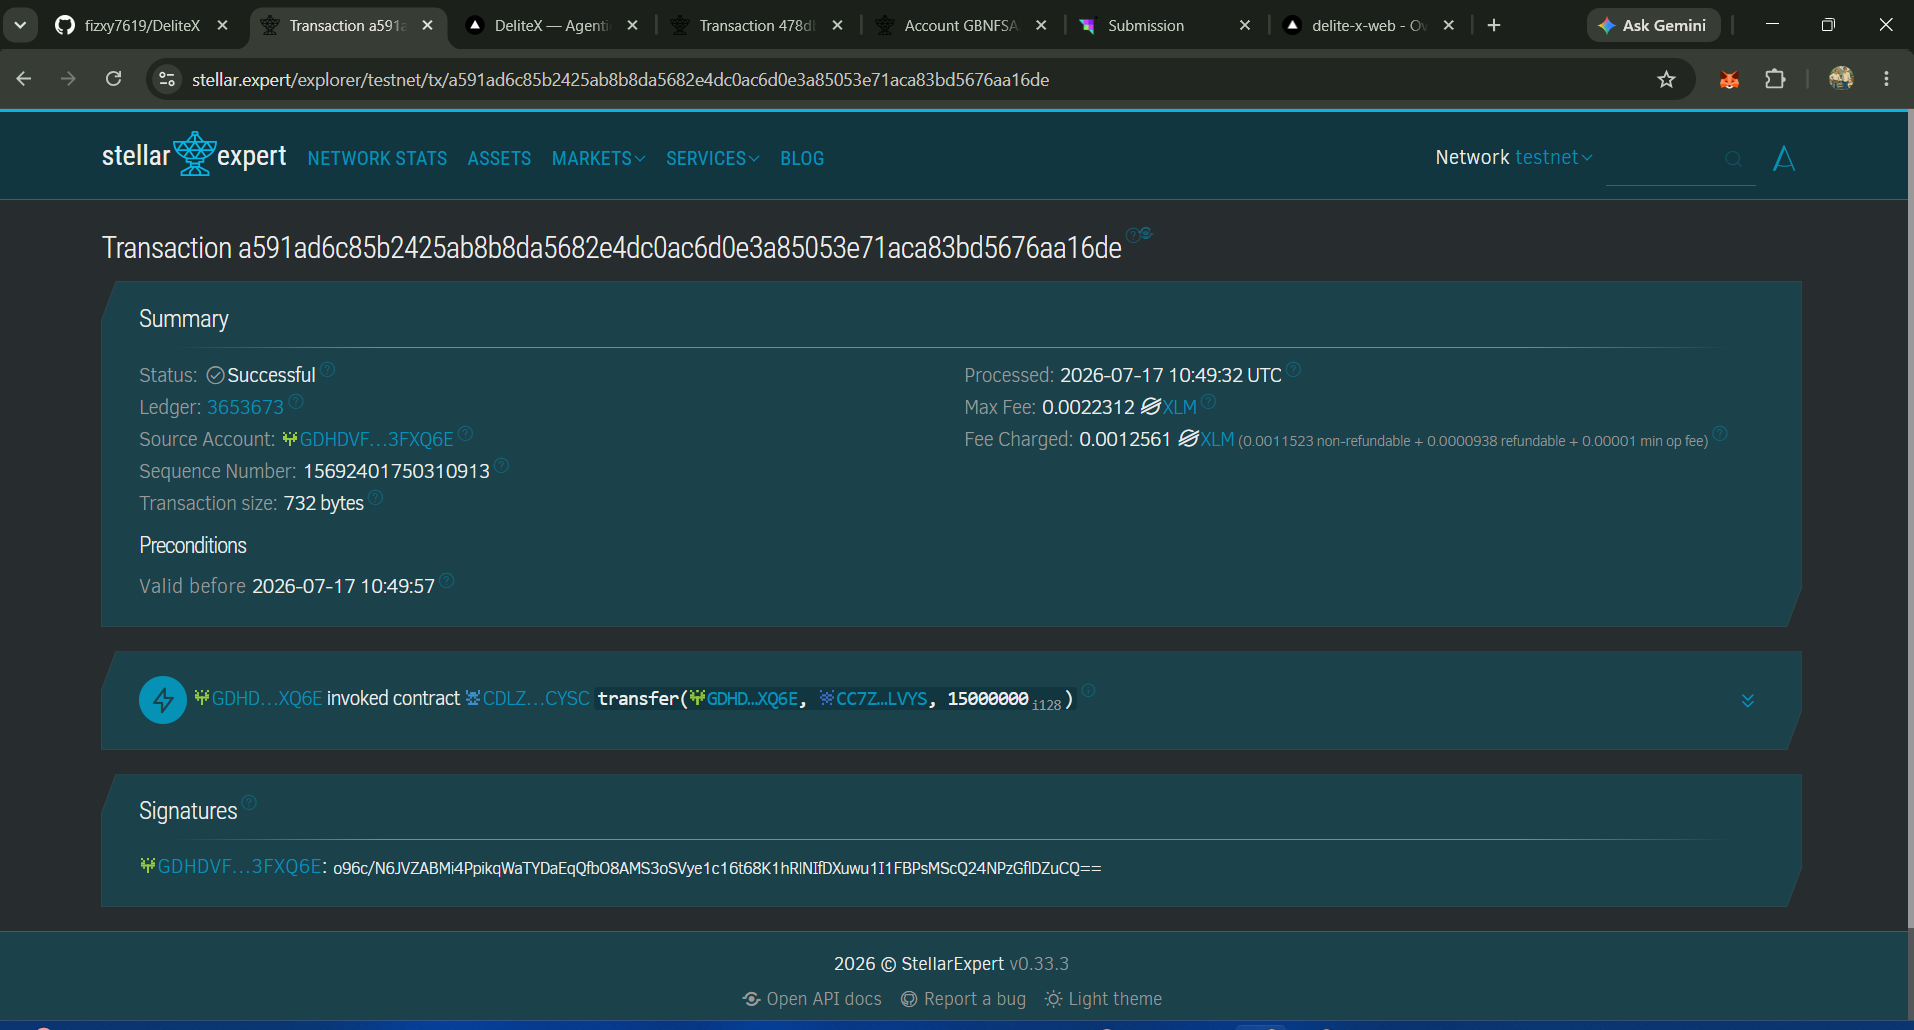
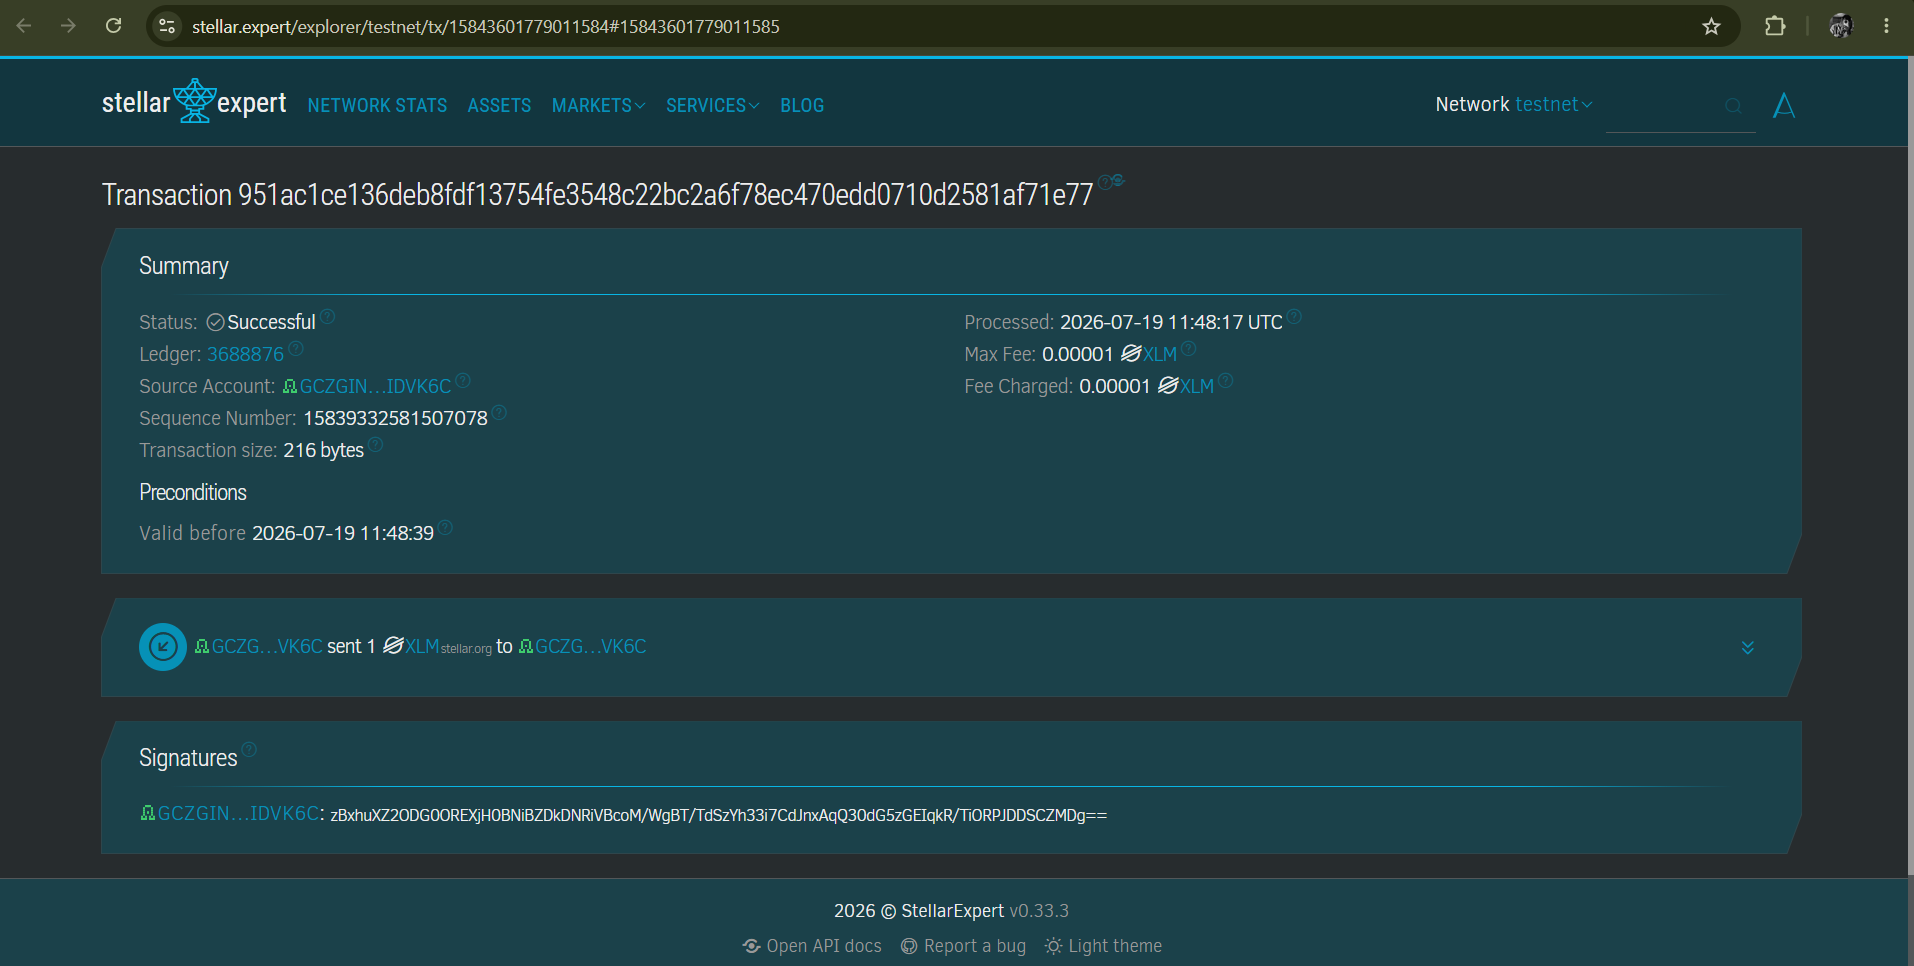
feat: Add send_payment intent and AI Sign & Send capability; update README with screenshots

diff --git a/apps/web/src/components/dashboard/AiAssistant.tsx b/apps/web/src/components/dashboard/AiAssistant.tsx
@@ -3,9 +3,24 @@
 import { useState, useRef, useEffect, useMemo, type FormEvent } from "react";
 import type { AllocationRule, AiMessage } from "@/types/domain";
 import type { ParsedIntent } from "@/lib/ai/intent-parser";
+import { StellarWalletsKit } from "@creit.tech/stellar-wallets-kit";
+import { FreighterModule } from "@creit.tech/stellar-wallets-kit/modules/freighter";
+import { isConnected as isFreighterConnected } from "@stellar/freighter-api";
+import { TransactionBuilder, Networks, Operation, Asset, rpc, Account } from "@stellar/stellar-sdk";
+import { createClient } from "@/lib/supabase/client";
+
+const STELLAR_NETWORK_PASSPHRASE = Networks.TESTNET;
+const SOROBAN_RPC_URL = "https://soroban-testnet.stellar.org";
+const BASE_FEE = "100";
 
 type DbAiMessage = AiMessage & {
-  parsed_rule?: { allocations: { bucket: string; percent: number }[] };
+  parsed_rule?: { 
+    allocations?: { bucket: string; percent: number }[];
+    intent?: string;
+    amount?: number;
+    recipientId?: string;
+    recipientName?: string;
+  };
   llm_model?: string;
   llm_latency_ms?: number;
 };
@@ -45,6 +60,84 @@ function IntentCard({ intent, onApply, onDismiss, isAlreadyApplied }: { intent: 
     }
   }
 
+  async function handleSendPayment() {
+    if (intent.intent !== "send_payment" || !intent.amount) return;
+    if (!intent.recipientId) {
+      setApplyError("No recipient ID matched. Cannot send.");
+      return;
+    }
+    
+    setApplying(true);
+    setApplyError(null);
+    try {
+      const supabase = createClient();
+      
+      // Get the payeeIdentifier
+      const { data: rec } = await supabase.from("family_recipients").select("payee_identifier, total_transferred_inr").eq("id", intent.recipientId).single();
+      if (!rec || !rec.payee_identifier) throw new Error("Recipient does not have a configured wallet address.");
+
+      StellarWalletsKit.init({
+        network: Networks.TESTNET,
+        selectedWalletId: "freighter",
+        modules: [new FreighterModule()],
+      });
+      await isFreighterConnected();
+      
+      const rpcServer = new rpc.Server(SOROBAN_RPC_URL);
+      const { address } = await StellarWalletsKit.authModal();
+      
+      // We don't have Horizon in imports easily, we can use RPC to load account for sequence number
+      const accountRes = await rpcServer.getAccount(address);
+      if (!accountRes) throw new Error("Could not fetch account details.");
+      
+      // Create a mock Account object using sequence number
+      const account = new Account(address, accountRes.sequenceNumber().toString());
+      
+      const xlmAmount = (intent.amount / 8.33).toFixed(7);
+
+      const tx = new TransactionBuilder(account, { fee: BASE_FEE, networkPassphrase: STELLAR_NETWORK_PASSPHRASE })
+        .addOperation(Operation.payment({
+          destination: rec.payee_identifier,
+          asset: Asset.native(),
+          amount: xlmAmount
+        }))
+        .setTimeout(300).build();
+
+      const signResult = await StellarWalletsKit.signTransaction(tx.toXDR(), { networkPassphrase: STELLAR_NETWORK_PASSPHRASE });
+      const signedTx = TransactionBuilder.fromXDR(signResult.signedTxXdr, STELLAR_NETWORK_PASSPHRASE);
+      
+      // eslint-disable-next-line @typescript-eslint/no-explicit-any
+      const submitRes = await rpcServer.sendTransaction(signedTx as any);
+      if (submitRes.status === "ERROR") throw new Error("Transaction failed to submit.");
+      
+      let isSuccess = false;
+      for (let i = 0; i < 10; i++) {
+        await new Promise(resolve => setTimeout(resolve, 1500));
+        const status = await rpcServer.getTransaction(submitRes.hash);
+        if (status.status === "SUCCESS") {
+           isSuccess = true;
+           break;
+        } else if (status.status === "FAILED") {
+           throw new Error("Transaction failed on-chain.");
+        }
+      }
+      
+      if (!isSuccess) throw new Error("Transaction timed out.");
+
+      await supabase.from("family_recipients").update({
+        last_transfer_amount: intent.amount,
+        last_transfer_at: new Date().toISOString(),
+        total_transferred_inr: (rec.total_transferred_inr || 0) + intent.amount
+      }).eq("id", intent.recipientId);
+
+      onApply();
+    } catch (err) {
+      setApplyError((err as Error).message);
+    } finally {
+      setApplying(false);
+    }
+  }
+
   const bucketColors: Record<string, string> = {
     bills: "#E8872A", family: "#2B7A5A", savings: "#4F46E5", income: "#64748B",
   };
@@ -52,8 +145,13 @@ function IntentCard({ intent, onApply, onDismiss, isAlreadyApplied }: { intent: 
   return (
     <div style={{ marginTop: "8px", padding: "14px 16px", borderRadius: "12px", border: "1px solid rgba(43,122,90,0.3)", backgroundColor: "var(--color-jade-light)" }}>
       <p style={{ fontSize: "0.75rem", fontWeight: 700, letterSpacing: "0.05em", textTransform: "uppercase", color: "var(--color-jade)", marginBottom: "8px" }}>
-        Proposed Rule
+        {intent.intent === "send_payment" ? "Proposed Payment" : "Proposed Rule"}
       </p>
+      {intent.intent === "send_payment" && (
+        <p style={{ fontSize: "0.875rem", color: "var(--color-ink-900)", marginBottom: "12px", fontWeight: 500 }}>
+          ₹{intent.amount?.toLocaleString("en-IN")} to {intent.recipientName ?? "Recipient"}
+        </p>
+      )}
       {intent.allocations && (
         <div style={{ display: "flex", gap: "8px", flexWrap: "wrap", marginBottom: "12px" }}>
           {intent.allocations.map((a) => (
@@ -68,15 +166,21 @@ function IntentCard({ intent, onApply, onDismiss, isAlreadyApplied }: { intent: 
       )}
       {!applied ? (
         <div style={{ display: "flex", gap: "8px" }}>
-          <button onClick={handleApply} disabled={applying} style={{ padding: "6px 14px", borderRadius: "6px", border: "none", backgroundColor: "var(--color-jade)", color: "#fff", fontSize: "0.8125rem", fontWeight: 600, cursor: "pointer", fontFamily: "var(--font-body)" }}>
-            {applying ? "Applying…" : "✓ Apply Rule"}
-          </button>
+          {intent.intent === "send_payment" ? (
+             <button onClick={handleSendPayment} disabled={applying} style={{ padding: "6px 14px", borderRadius: "6px", border: "none", backgroundColor: "var(--color-jade)", color: "#fff", fontSize: "0.8125rem", fontWeight: 600, cursor: "pointer", fontFamily: "var(--font-body)" }}>
+               {applying ? "Executing…" : "Sign & Send"}
+             </button>
+          ) : (
+             <button onClick={handleApply} disabled={applying} style={{ padding: "6px 14px", borderRadius: "6px", border: "none", backgroundColor: "var(--color-jade)", color: "#fff", fontSize: "0.8125rem", fontWeight: 600, cursor: "pointer", fontFamily: "var(--font-body)" }}>
+               {applying ? "Applying…" : "✓ Apply Rule"}
+             </button>
+          )}
           <button onClick={onDismiss} style={{ padding: "6px 14px", borderRadius: "6px", border: "1px solid rgba(43,122,90,0.4)", backgroundColor: "transparent", color: "var(--color-jade)", fontSize: "0.8125rem", cursor: "pointer", fontFamily: "var(--font-body)" }}>
             Dismiss
           </button>
         </div>
       ) : (
-        <p style={{ fontSize: "0.8125rem", color: "var(--color-jade)", fontWeight: 600 }}>✓ Rule applied to your allocation!</p>
+        <p style={{ fontSize: "0.8125rem", color: "var(--color-jade)", fontWeight: 600 }}>✓ {intent.intent === "send_payment" ? "Payment successful!" : "Rule applied to your allocation!"}</p>
       )}
     </div>
   );
@@ -96,7 +200,8 @@ function MessageBubble({ msg, activeRule, isLatestIntent, pendingIntent, isDismi
   const dbMsg = msg as DbAiMessage;
   
   const isAlreadyApplied = useMemo(() => {
-    if (!activeRule || !dbMsg.parsed_rule) return false;
+    if (!activeRule || !dbMsg.parsed_rule || dbMsg.parsed_rule.intent === "send_payment") return false;
+    if (!dbMsg.parsed_rule.allocations) return false;
     const sortedActive = [...activeRule.allocations].sort((a,b) => a.bucket.localeCompare(b.bucket));
     const sortedParsed = [...dbMsg.parsed_rule.allocations].sort((a,b) => a.bucket.localeCompare(b.bucket));
     return JSON.stringify(sortedActive) === JSON.stringify(sortedParsed);
@@ -115,10 +220,20 @@ function MessageBubble({ msg, activeRule, isLatestIntent, pendingIntent, isDismi
         </div>
       </div>
 
-      {!isUser && !isDismissed && isLatestIntent && (pendingIntent?.intent === "set_allocation" || dbMsg.parsed_rule) && onApply && onDismiss && (
+      {!isUser && !isDismissed && isLatestIntent && (pendingIntent?.intent === "set_allocation" || pendingIntent?.intent === "send_payment" || dbMsg.parsed_rule) && onApply && onDismiss && (
         <div style={{ paddingLeft: "36px", width: "100%" }}>
           <IntentCard
-            intent={(pendingIntent ?? { intent: "set_allocation", allocations: dbMsg.parsed_rule?.allocations || [], explanation: msg.content, source: "nvidia-nim", latencyMs: 0, confidence: 1 }) as ParsedIntent}
+            intent={(pendingIntent ?? { 
+              intent: dbMsg.parsed_rule?.intent || "set_allocation", 
+              allocations: dbMsg.parsed_rule?.allocations || [],
+              amount: dbMsg.parsed_rule?.amount,
+              recipientId: dbMsg.parsed_rule?.recipientId,
+              recipientName: dbMsg.parsed_rule?.recipientName,
+              explanation: msg.content, 
+              source: "nvidia-nim", 
+              latencyMs: 0, 
+              confidence: 1 
+            }) as ParsedIntent}
             onApply={onApply}
             onDismiss={onDismiss}
             isAlreadyApplied={isAlreadyApplied}

diff --git a/apps/web/src/app/api/ai/parse-intent/route.ts b/apps/web/src/app/api/ai/parse-intent/route.ts
@@ -36,12 +36,30 @@ export async function POST(request: NextRequest) {
   // 2. Parse Intent
   const intent = await parseIntent(body.message);
 
+  // 2b. Lookup recipient if send_payment
+  if (intent.intent === "send_payment" && intent.recipientName) {
+    const { data: recipients } = await serviceSupabase
+      .from("family_recipients")
+      .select("*")
+      .eq("user_id", user.id)
+      .ilike("name", `%${intent.recipientName}%`)
+      .limit(1);
+    
+    if (recipients && recipients.length > 0) {
+      intent.recipientId = recipients[0].id;
+      // You could also add a payeeIdentifier field to intent, but let's assume client fetches it or we pass it
+    } else {
+      intent.explanation += ` (Warning: Couldn't find a recipient matching "${intent.recipientName}")`;
+    }
+  }
+
   // 3. Insert Assistant Message
   await serviceSupabase.from("ai_chat_messages").insert({
     user_id: user.id,
     role: "assistant",
     content: intent.explanation,
-    parsed_rule: intent.intent === "set_allocation" ? { allocations: intent.allocations } : null,
+    parsed_rule: intent.intent === "set_allocation" ? { allocations: intent.allocations } : 
+                 intent.intent === "send_payment" ? { intent: "send_payment", amount: intent.amount, recipientId: intent.recipientId, recipientName: intent.recipientName } : null,
     llm_model: intent.source === "nvidia-nim" ? "NVIDIA Nemotron-4-340B" : "Keyword fallback",
     llm_latency_ms: intent.latencyMs,
     created_at: new Date().toISOString()

diff --git a/apps/web/src/lib/ai/intent-parser.ts b/apps/web/src/lib/ai/intent-parser.ts
@@ -14,10 +14,12 @@ export interface ParsedIntent {
     | "ask_question"
     | "set_allowance"
     | "simulate_payment"
+    | "send_payment"
     | "other";
   allocations?: { bucket: BucketType; percent: number }[];
   billId?: string;
   recipientId?: string;
+  recipientName?: string;
   amount?: number;
   /** Human-readable explanation the AI will show back to the user */
   explanation: string;
@@ -47,9 +49,10 @@ IMPORTANT RULES:
 
 You MUST respond with ONLY valid JSON, no markdown, no extra text:
 {
-  "intent": "set_allocation" | "pause_bill" | "resume_bill" | "ask_question" | "set_allowance" | "simulate_payment" | "other",
+  "intent": "set_allocation" | "pause_bill" | "resume_bill" | "ask_question" | "set_allowance" | "simulate_payment" | "send_payment" | "other",
   "allocations": [{ "bucket": "income"|"bills"|"family"|"savings", "percent": number }],
   "amount": number | null,
+  "recipientName": string | null,
   "explanation": "string - what you will do, in plain English",
   "confidence": number (0.0 to 1.0)
 }`;
@@ -79,7 +82,19 @@ function keywordFallback(text: string): ParsedIntent {
     return { intent: "ask_question", explanation: "Our FX spread is under 0.3% via Stellar DEX, vs 3–7% for traditional wires. On ₹10 lakh annual income, you save ₹27,000–67,000/year.", confidence: 0.95, source: "fallback", latencyMs: Date.now() - start };
   }
 
-  return { intent: "other", explanation: "I'm not sure what you meant. Try: 'Allocate 20% to savings', 'Always pay bills first', or 'Send 10% to family'.", confidence: 0.3, source: "fallback", latencyMs: Date.now() - start };
+  // Very naive fallback for send payment
+  if (lower.includes("send") || lower.includes("pay")) {
+    const amtMatch = lower.match(/\b(\d+)\b/);
+    const amount = amtMatch ? parseInt(amtMatch[1], 10) : 100;
+    
+    let recipientName = "recipient";
+    if (lower.includes("mom")) recipientName = "Mom";
+    else if (lower.includes("dad")) recipientName = "Dad";
+    
+    return { intent: "send_payment", amount, recipientName, explanation: `I will prepare a transfer of ₹${amount} to ${recipientName}.`, confidence: 0.8, source: "fallback", latencyMs: Date.now() - start };
+  }
+
+  return { intent: "other", explanation: "I'm not sure what you meant. Try: 'Allocate 20% to savings', 'Pay 500 to Mom', or 'Send 10% to family'.", confidence: 0.3, source: "fallback", latencyMs: Date.now() - start };
 }
 
 /** Parse user text into a structured intent using NVIDIA Nemotron */
@@ -105,6 +120,7 @@ export async function parseIntent(userText: string): Promise<ParsedIntent> {
       allocations: parsed.allocations ?? undefined,
       billId: parsed.billId ?? undefined,
       recipientId: parsed.recipientId ?? undefined,
+      recipientName: parsed.recipientName ?? undefined,
       amount: parsed.amount ?? undefined,
       explanation: parsed.explanation ?? "Done.",
       confidence: parsed.confidence ?? 0.7,

diff --git a/apps/web/src/components/dashboard/BillsView.tsx b/apps/web/src/components/dashboard/BillsView.tsx
@@ -180,10 +180,10 @@ export default function BillsView() {
             <h3 style={{ fontSize: "1.25rem", fontWeight: 600, color: "#1E293B" }}>Add New Bill</h3>
             
             <div style={{ display: "flex", flexDirection: "column", gap: "12px" }}>
-              <input type="text" placeholder="Bill Name (e.g. Rent, Electricity)" className="input" style={{ width: "100%", padding: "10px", borderRadius: "8px", border: "1px solid #E2E8F0" }} value={newName} onChange={e => setNewName(e.target.value)} />
-              <input type="text" placeholder="Payee (Stellar Address or UPI)" className="input" style={{ width: "100%", padding: "10px", borderRadius: "8px", border: "1px solid #E2E8F0" }} value={newPayee} onChange={e => setNewPayee(e.target.value)} />
-              <input type="number" placeholder="Amount (INR)" className="input" style={{ width: "100%", padding: "10px", borderRadius: "8px", border: "1px solid #E2E8F0" }} value={newAmount} onChange={e => setNewAmount(e.target.value)} />
-              <select className="input" style={{ width: "100%", padding: "10px", borderRadius: "8px", border: "1px solid #E2E8F0", backgroundColor: "#fff" }} value={newFrequency} onChange={e => setNewFrequency(e.target.value as "monthly" | "weekly" | "yearly")}>
+              <input type="text" placeholder="Bill Name (e.g. Rent, Electricity)" className="input" style={{ width: "100%", padding: "10px", borderRadius: "8px", border: "1px solid #E2E8F0", color: "#000", backgroundColor: "#fff" }} value={newName} onChange={e => setNewName(e.target.value)} />
+              <input type="text" placeholder="Payee (Stellar Address or UPI)" className="input" style={{ width: "100%", padding: "10px", borderRadius: "8px", border: "1px solid #E2E8F0", color: "#000", backgroundColor: "#fff" }} value={newPayee} onChange={e => setNewPayee(e.target.value)} />
+              <input type="number" placeholder="Amount (INR)" className="input" style={{ width: "100%", padding: "10px", borderRadius: "8px", border: "1px solid #E2E8F0", color: "#000", backgroundColor: "#fff" }} value={newAmount} onChange={e => setNewAmount(e.target.value)} />
+              <select className="input" style={{ width: "100%", padding: "10px", borderRadius: "8px", border: "1px solid #E2E8F0", backgroundColor: "#fff", color: "#000" }} value={newFrequency} onChange={e => setNewFrequency(e.target.value as "monthly" | "weekly" | "yearly")}>
                 <option value="monthly">Monthly</option>
                 <option value="weekly">Weekly</option>
                 <option value="yearly">Yearly</option>
@@ -191,8 +191,8 @@ export default function BillsView() {
             </div>
 
             <div style={{ display: "flex", gap: "12px", marginTop: "8px", justifyContent: "flex-end" }}>
-              <button className="btn btn-ghost" style={{ padding: "8px 16px" }} onClick={() => setShowAddModal(false)}>Cancel</button>
-              <button className="btn btn-primary" style={{ padding: "8px 16px" }} onClick={handleAddBill} disabled={isAdding}>{isAdding ? "Adding..." : "Add"}</button>
+              <button className="btn btn-ghost" style={{ padding: "8px 16px", color: "#000" }} onClick={() => setShowAddModal(false)}>Cancel</button>
+              <button className="btn btn-primary" style={{ padding: "8px 16px", color: "#fff" }} onClick={handleAddBill} disabled={isAdding}>{isAdding ? "Adding..." : "Add"}</button>
             </div>
           </div>
         </div>

diff --git a/apps/web/src/components/dashboard/FamilyView.tsx b/apps/web/src/components/dashboard/FamilyView.tsx
@@ -239,15 +239,15 @@ export default function FamilyView() {
             <h3 style={{ fontSize: "1.25rem", fontWeight: 600, color: "#1E293B" }}>Add Family Recipient</h3>
             
             <div style={{ display: "flex", flexDirection: "column", gap: "12px" }}>
-              <input type="text" placeholder="Name" className="input" style={{ width: "100%", padding: "10px", borderRadius: "8px", border: "1px solid #E2E8F0" }} value={newName} onChange={e => setNewName(e.target.value)} />
-              <input type="text" placeholder="Relationship (e.g. Mother)" className="input" style={{ width: "100%", padding: "10px", borderRadius: "8px", border: "1px solid #E2E8F0" }} value={newRelationship} onChange={e => setNewRelationship(e.target.value)} />
-              <input type="text" placeholder="Stellar G-Address" className="input" style={{ width: "100%", padding: "10px", borderRadius: "8px", border: "1px solid #E2E8F0" }} value={newAddress} onChange={e => setNewAddress(e.target.value)} />
-              <input type="number" placeholder="Monthly Allowance (INR)" className="input" style={{ width: "100%", padding: "10px", borderRadius: "8px", border: "1px solid #E2E8F0" }} value={newAmount} onChange={e => setNewAmount(e.target.value)} />
+              <input type="text" placeholder="Name" className="input" style={{ width: "100%", padding: "10px", borderRadius: "8px", border: "1px solid #E2E8F0", color: "#000", backgroundColor: "#fff" }} value={newName} onChange={e => setNewName(e.target.value)} />
+              <input type="text" placeholder="Relationship (e.g. Mother)" className="input" style={{ width: "100%", padding: "10px", borderRadius: "8px", border: "1px solid #E2E8F0", color: "#000", backgroundColor: "#fff" }} value={newRelationship} onChange={e => setNewRelationship(e.target.value)} />
+              <input type="text" placeholder="Stellar G-Address" className="input" style={{ width: "100%", padding: "10px", borderRadius: "8px", border: "1px solid #E2E8F0", color: "#000", backgroundColor: "#fff" }} value={newAddress} onChange={e => setNewAddress(e.target.value)} />
+              <input type="number" placeholder="Monthly Allowance (INR)" className="input" style={{ width: "100%", padding: "10px", borderRadius: "8px", border: "1px solid #E2E8F0", color: "#000", backgroundColor: "#fff" }} value={newAmount} onChange={e => setNewAmount(e.target.value)} />
             </div>
 
             <div style={{ display: "flex", gap: "12px", marginTop: "8px", justifyContent: "flex-end" }}>
-              <button className="btn btn-ghost" style={{ padding: "8px 16px" }} onClick={() => setShowAddModal(false)}>Cancel</button>
-              <button className="btn btn-primary" style={{ padding: "8px 16px" }} onClick={handleAddRecipient} disabled={isAdding}>{isAdding ? "Adding..." : "Add"}</button>
+              <button className="btn btn-ghost" style={{ padding: "8px 16px", color: "#000" }} onClick={() => setShowAddModal(false)}>Cancel</button>
+              <button className="btn btn-primary" style={{ padding: "8px 16px", color: "#fff" }} onClick={handleAddRecipient} disabled={isAdding}>{isAdding ? "Adding..." : "Add"}</button>
             </div>
           </div>
         </div>

diff --git a/README.md b/README.md
@@ -54,6 +54,45 @@ By utilizing Stellar's near-zero fee, high-throughput network, and Soroban's rus
 
 ---
 
+## Screenshots
+
+<div align="center">
+  <img src="apps/web/public/Screenshots/Landing%20Page.png" width="800" alt="Landing Page">
+</div>
+
+### Delite Dashboard
+<div align="center">
+  <img src="apps/web/public/Screenshots/Dashbaord.png" width="800" alt="Dashboard">
+</div>
+
+### Agentic AI Assistant
+<div align="center">
+  <img src="apps/web/public/Screenshots/Agentic%20Ai.png" width="800" alt="Agentic AI">
+</div>
+
+### Family & Remittance
+<div align="center">
+  <img src="apps/web/public/Screenshots/Family%20&%20Remitance.png" width="800" alt="Family & Remittance">
+</div>
+
+### On-Chain Transactions
+<div align="center">
+  <img src="apps/web/public/Screenshots/Vault%20Transaction.png" width="400" alt="Vault Transaction">
+  <img src="apps/web/public/Screenshots/Transaction%20Proof.png" width="400" alt="Transaction Proof">
+</div>
+
+### Soroban Smart Contracts
+<div align="center">
+  <img src="apps/web/public/Screenshots/Deployed%20Vault%20Contract.png" width="800" alt="Deployed Vault Contract">
+</div>
+
+### CI/CD Pipeline
+<div align="center">
+  <img src="apps/web/public/Screenshots/CI%20CD%20Pipeline.png" width="800" alt="CI/CD Pipeline">
+</div>
+
+---
+
 ## Architecture Flow
 
 The Delite architecture merges off-chain AI reasoning with on-chain deterministic execution. Here is the step-by-step lifecycle of a Delite allocation rule: